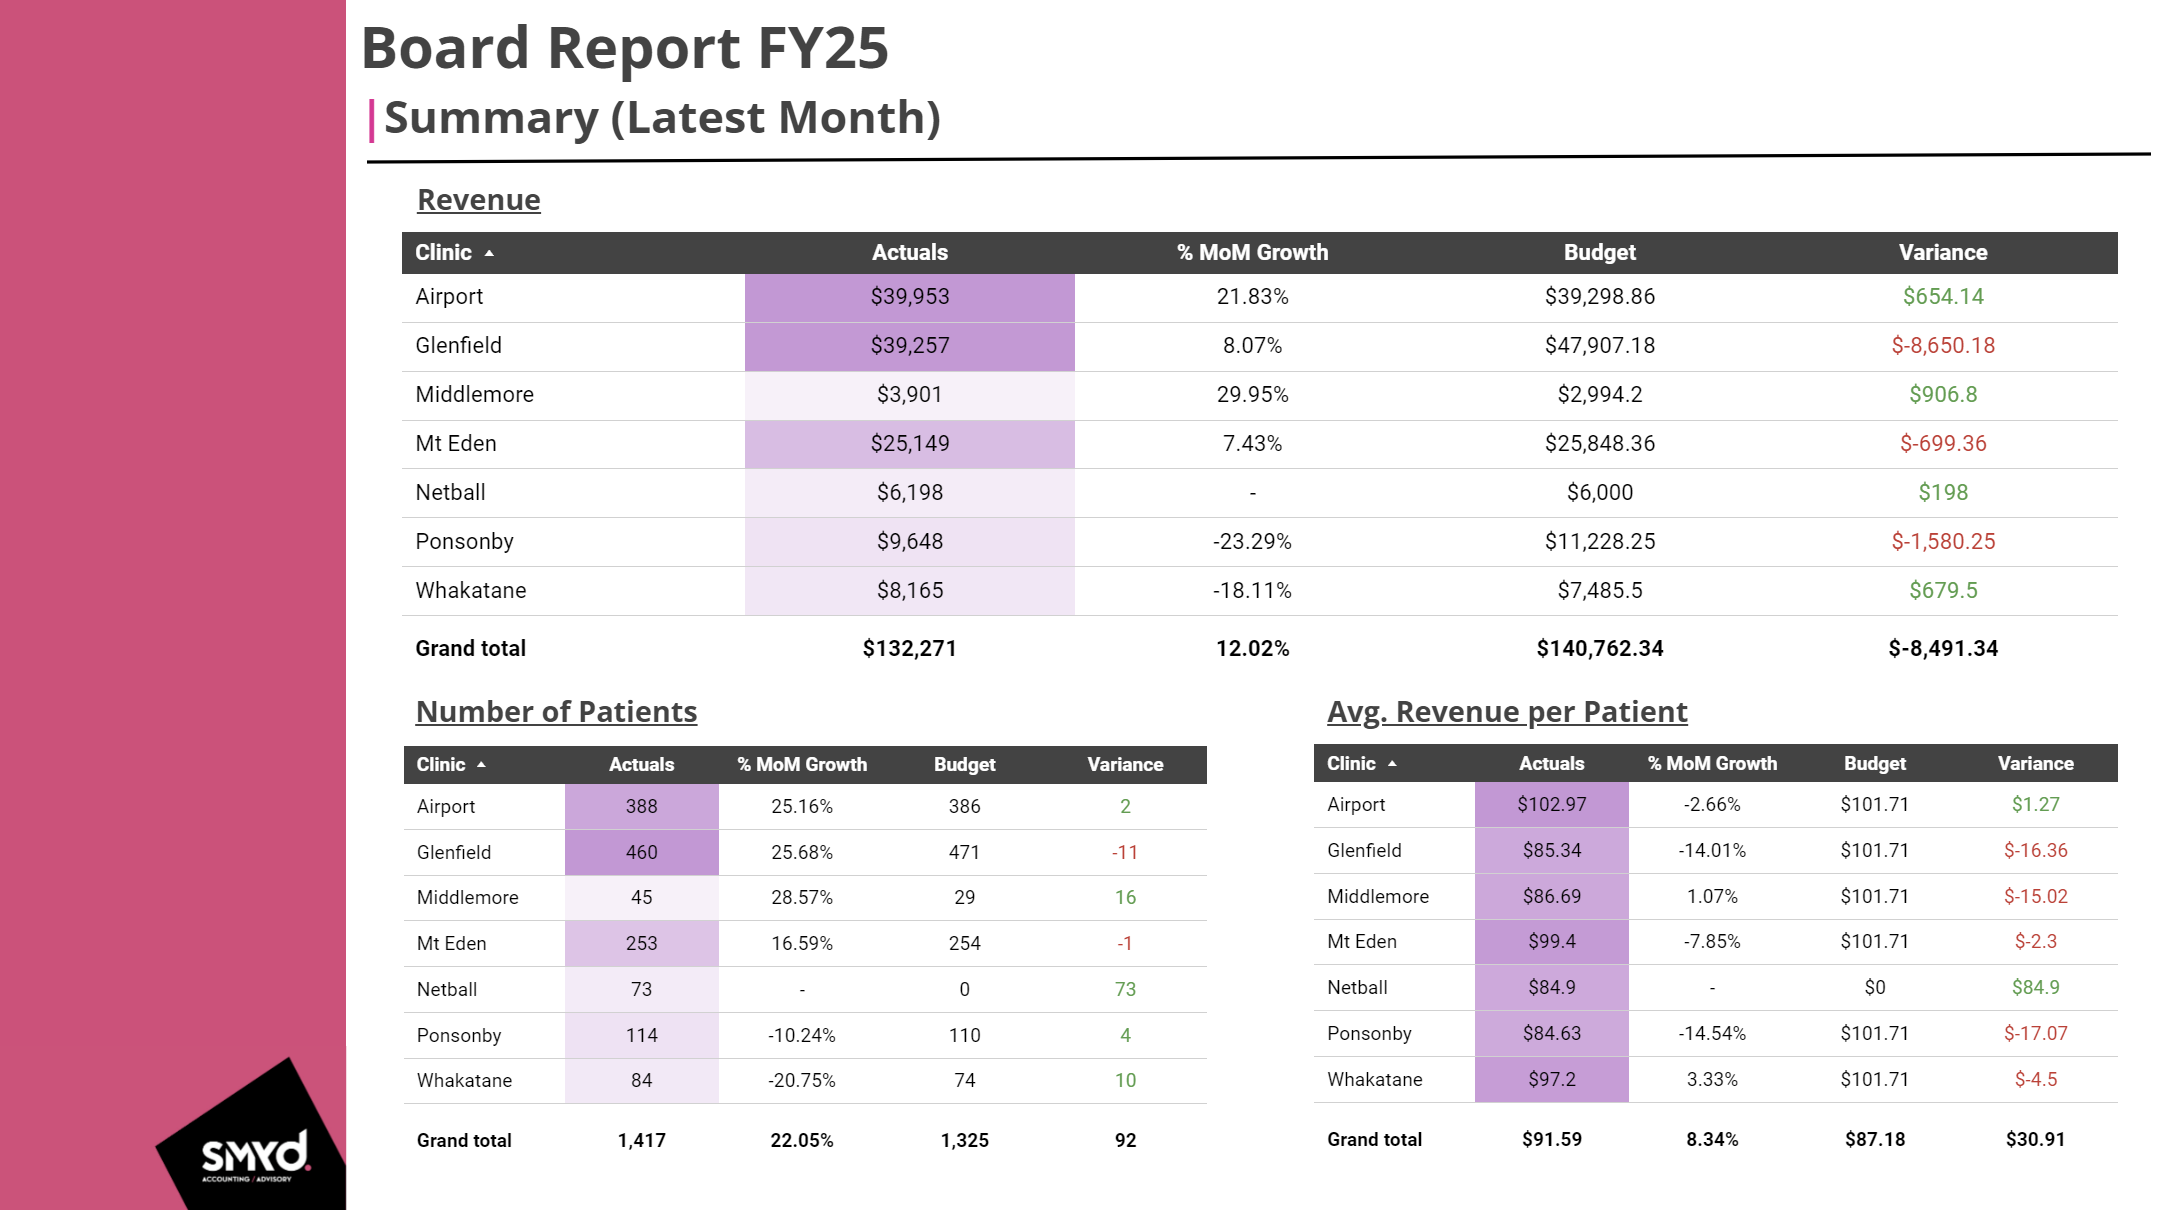
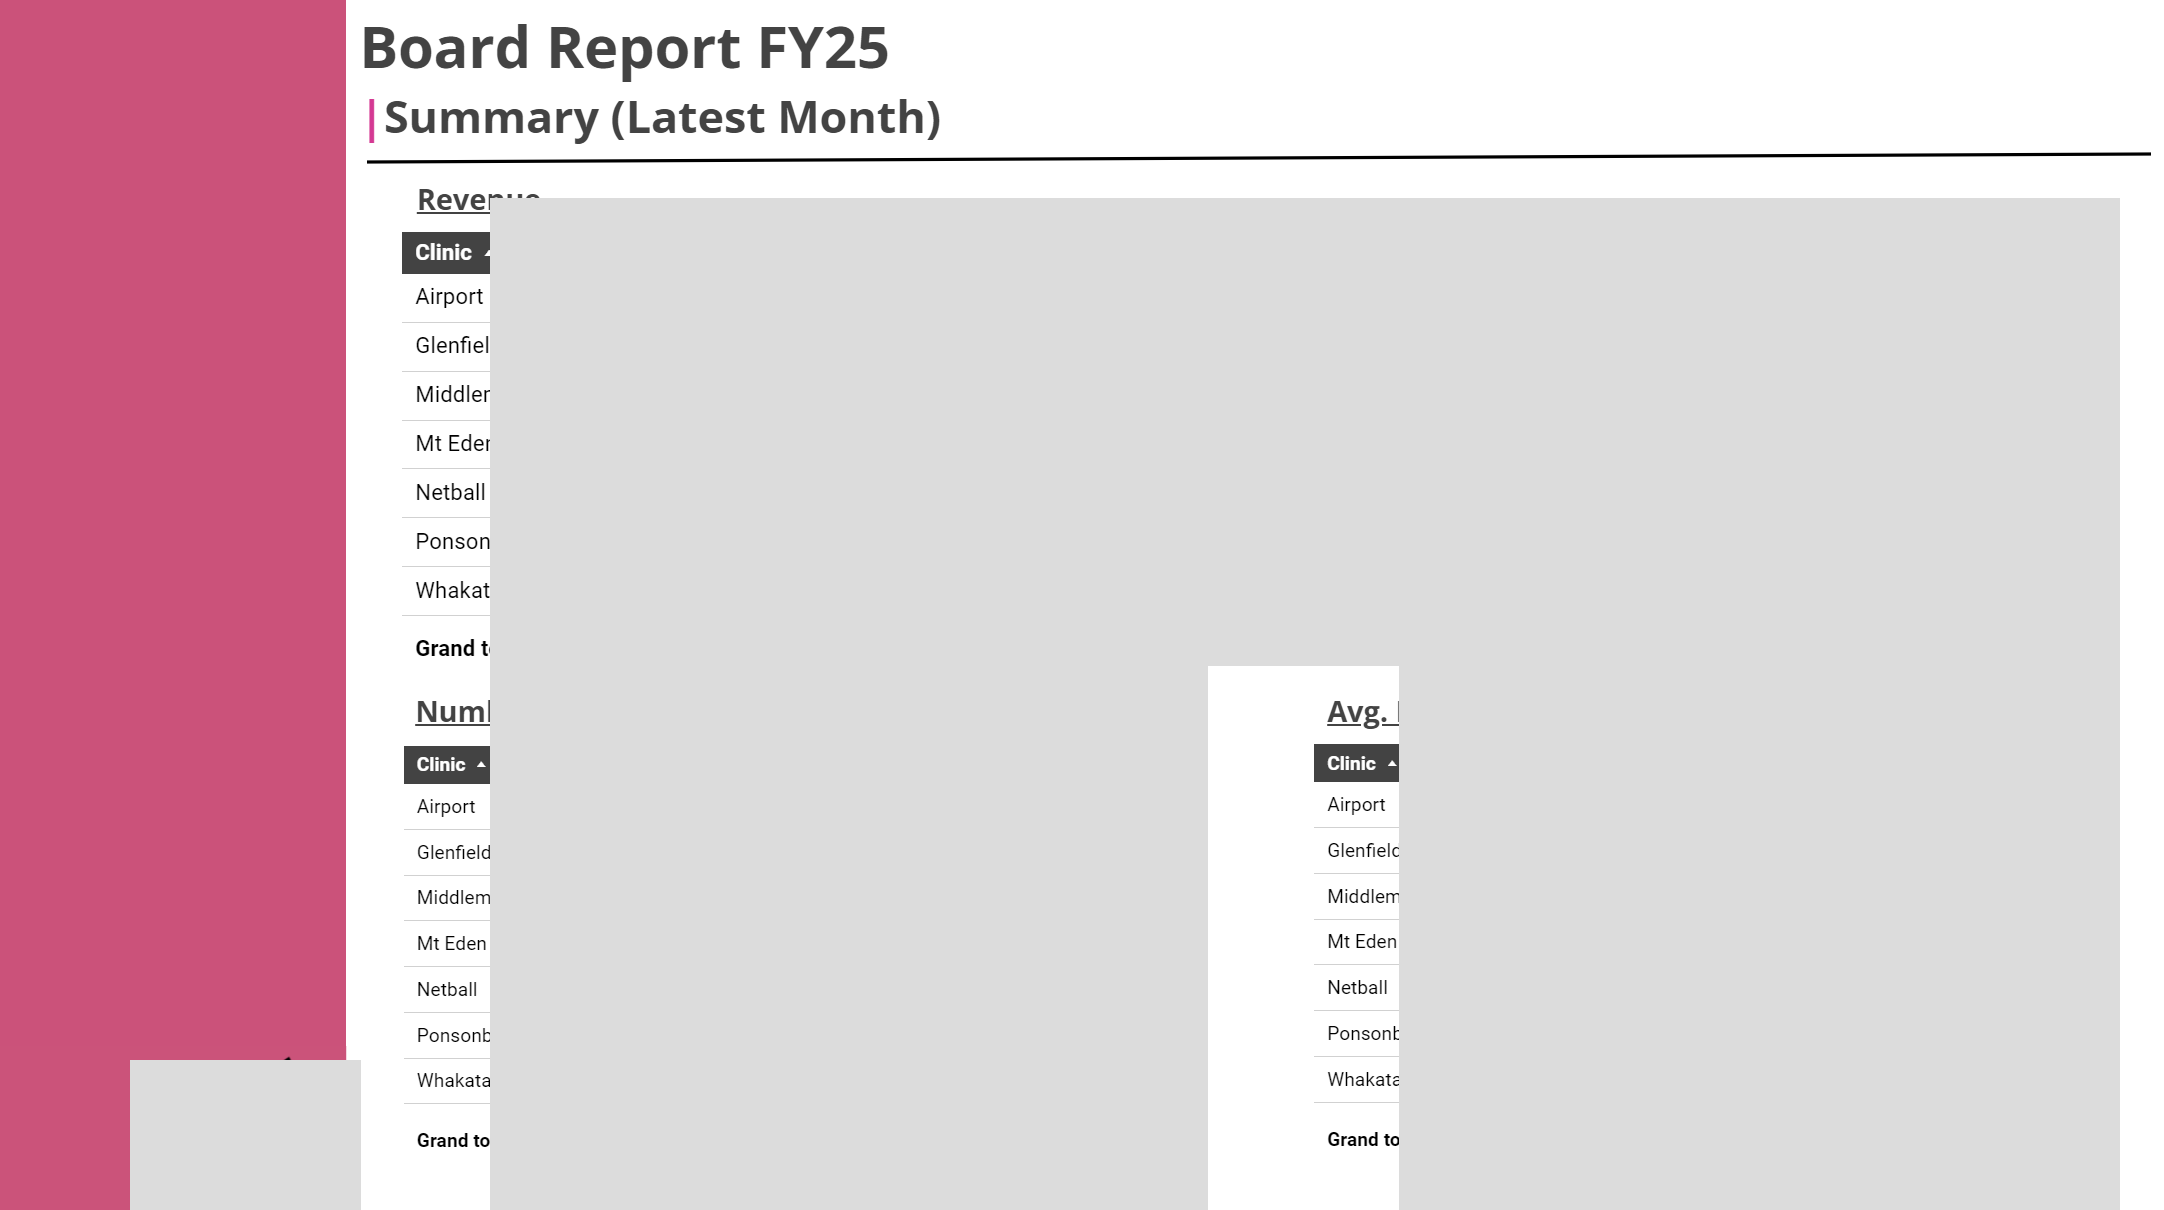
Fix: Board Report to Looker Studio, update Jakarta location, redact image numbers

diff --git a/index.html.html b/index.html.html
@@ -398,7 +398,7 @@
     <h1>Business &amp; Data Analyst<br/><span>AI Builder</span></h1>
     <p>
       I help organisations make sense of their data — and build AI-powered tools that make that process faster, smarter, and more useful.
-      Based in Jakarta, open to remote and relocation.
+      Based in Jakarta, Indonesia.
     </p>
     <div class="hero-links">
       <a class="btn" href="mailto:[email redacted]">Let's connect</a>
@@ -480,14 +480,14 @@
         </div>
       </div>
 
-      <div class="project-item" data-tool="powerbi">
+      <div class="project-item" data-tool="looker">
         <img src="Screenshot 2024-06-28 092455.png" alt="Board Report FY25" loading="lazy" />
         <div class="project-item-body">
-          <span class="project-tag">Power BI · Executive Reporting</span>
+          <span class="project-tag">Looker Studio · Executive Reporting</span>
           <h3>Board Report FY25</h3>
           <p>End-of-year board report with headline metrics, program outcomes, and year-on-year comparisons — designed so non-technical leadership could navigate it without guidance.</p>
           <div class="project-chips">
-            <span class="chip">Power BI</span>
+            <span class="chip">Looker Studio</span>
             <span class="chip">Executive Reporting</span>
             <span class="chip">Stakeholder Comms</span>
           </div>
@@ -639,7 +639,7 @@
   <section id="contact">
     <p class="section-label">Contact</p>
     <p style="color: var(--mid); font-size: 15px; margin-bottom: 24px;">
-      Open to freelance projects, full-time roles, and remote opportunities. Based in Jakarta.
+      Based in Jakarta, Indonesia. Open to freelance projects, full-time roles, and remote opportunities.
     </p>
     <div class="contact-row">
       <a class="btn" href="mailto:[email redacted]">Let's connect</a>